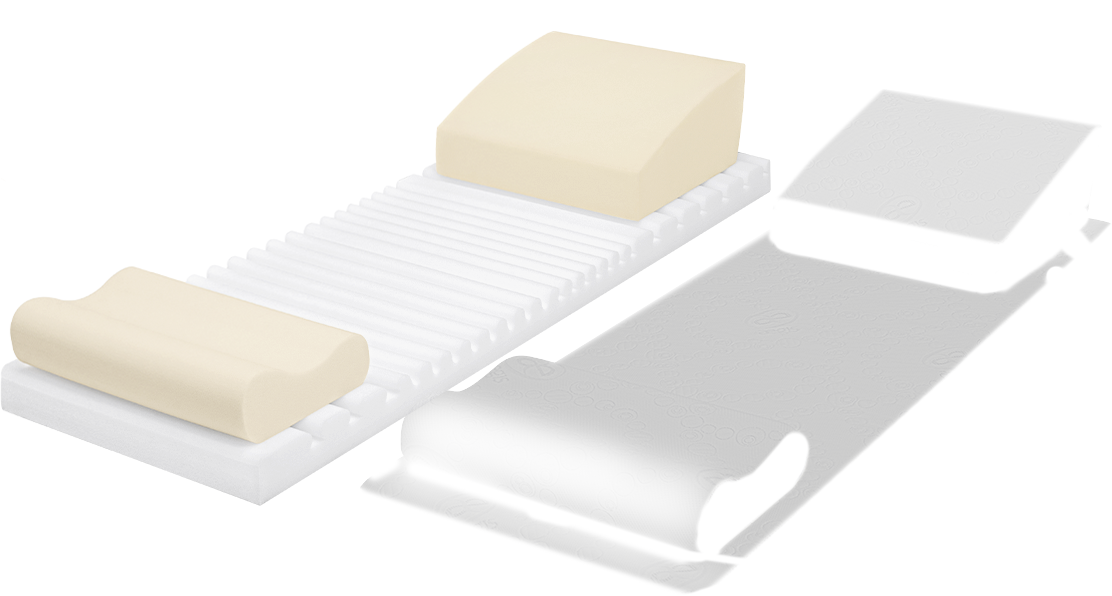
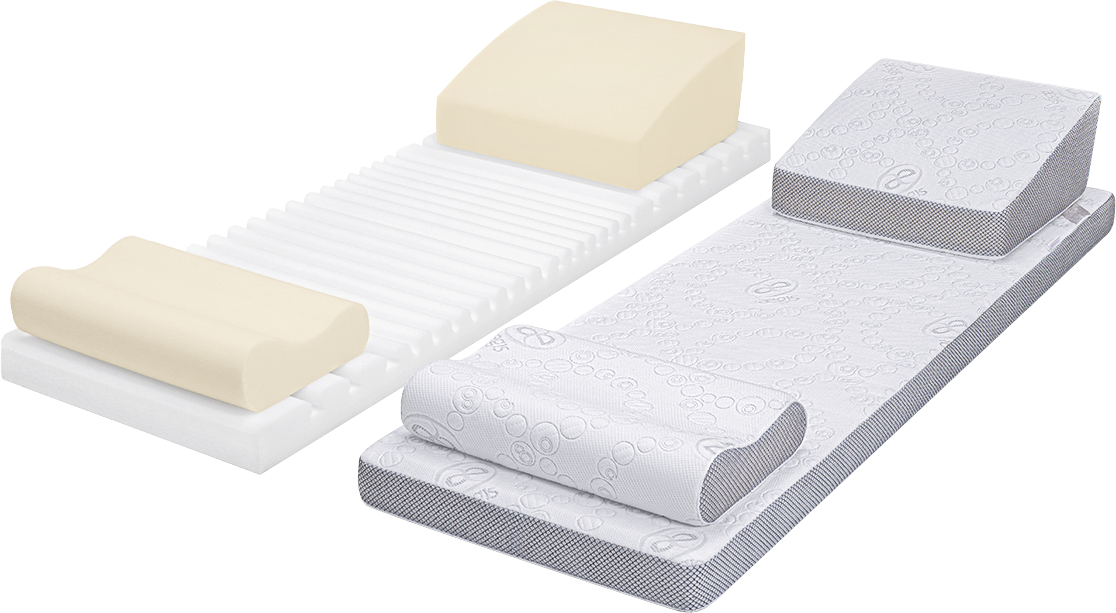
Vesta

diff --git a/vesta/css/global.css b/vesta/css/global.css
@@ -131,7 +131,7 @@ header {
   border-color: #ff0000 transparent transparent transparent;
 }
 #section3 {
-  background-image: url(../img/cloud_background.png);
+  background-image: url(../img/bg_nebo.png);
   background-size: cover;
   background-repeat: no-repeat;
   position: relative;
@@ -267,9 +267,9 @@ header {
   margin-top: 43px;
 }
 .er_d {
-  height: 575px;
-  width: 95%;
-  background-image: url(../img/matrasi2.png);
+  height: 600px;
+  width: 96%;
+  background-image: url(../img/matrasi.png);
   background-size: cover;
   background-repeat: no-repeat;
   background-position: left top;
@@ -766,19 +766,22 @@ header {
     rgba(255, 255, 255, 0.39) 100%
   );
 }
-.bed__dot.active {
+.bed__dot:nth-child(2) {
   width: 56px;
   outline: none;
   border-radius: 50%;
+  border: none;
   margin: 0 40px 0 0;
   height: 56px;
-  border: 4px solid #cccaca;
   background-color: #4c6347;
   background-image: linear-gradient(
     -33deg,
     rgba(0, 0, 1, 0.39) 0%,
     rgba(255, 255, 255, 0.39) 100%
   );
+}
+.bed__dot.active {
+  border: 4px solid #cccaca;
 }
 
 /* MODALS */

diff --git a/vesta/index.html b/vesta/index.html
@@ -176,8 +176,9 @@
             </div>
             <img class="bed__left" src="./img/bed__left.png" alt="" />
             <div class="owl-carousel-bed"> 
-                <img class="bed__img" src="./img/bed.png" alt="" />
-                <img class="bed__img" src="./img/bed.png" alt="" />
+              <img class="bed__img" src="./img/bed2.png" alt="" />
+
+                <img class="bed__img" src="./img/bed1.png" alt="" />
             </div>
         </div>
         </div>
